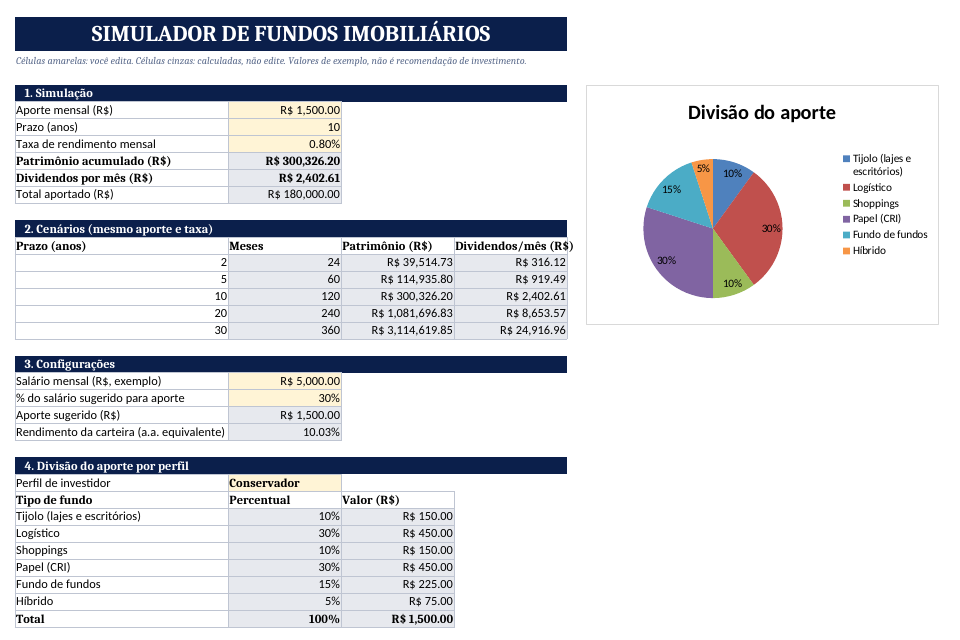
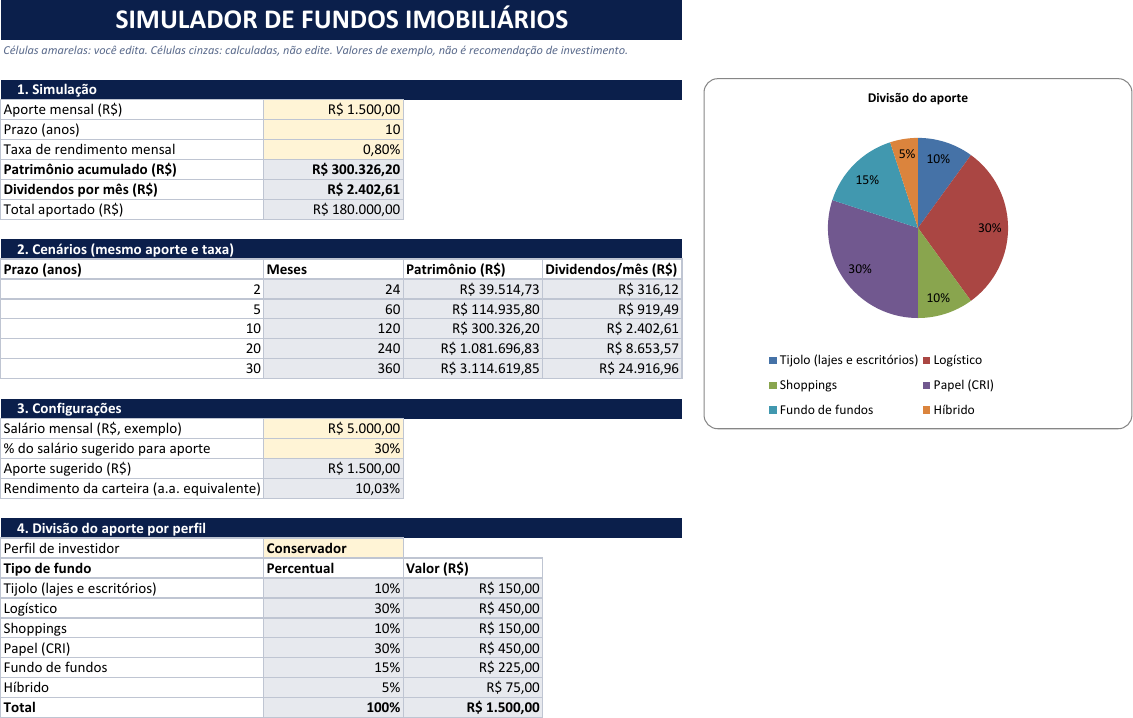
Excel: planilhas verificadas no Excel e gráficos corrigidos
Categorias dos gráficos como texto, títulos sem sobreposição, eixos e
legenda visíveis. Prints trocados por capturas do Excel.

Claude-Session: https://claude.ai/code/session_01AcydA1t7SxpgmSydUbNguB

diff --git a/projetos/excel/dashboard-vendas-game-pass/README.md b/projetos/excel/dashboard-vendas-game-pass/README.md
@@ -51,4 +51,4 @@ Os filtros funcionam assim: a escolha vira um critério (`Todos` vira `*`) e ent
 
 ## Conferência e limites
 
-Comparei com um cálculo em Python (pandas): receita total (7.633), assinantes (295), receita por plano, tipo, renovação e mês, add-ons e as respostas da tabela acima batem. No caso filtrado (Ultimate e Annual) os números também batem com o pandas. Não usei segmentadores de dados (slicers): o filtro é por lista suspensa.
+Comparei com um cálculo em Python (pandas): receita total (7.633), assinantes (295), receita por plano, tipo, renovação e mês, add-ons e as respostas da tabela acima batem. No caso filtrado (Ultimate e Annual) os números também batem com o pandas. Abri o arquivo no Excel e recalculei: sem erro de fórmula, 6 gráficos e os mesmos números (7.633, 295 e 25,87 de ticket médio; no filtro Ultimate e Annual, 1.186, 20 e 59,30). As imagens são prints do Excel. Não usei segmentadores de dados (slicers): o filtro é por lista suspensa.

diff --git a/projetos/excel/simulador-fundos-imobiliarios/README.md b/projetos/excel/simulador-fundos-imobiliarios/README.md
@@ -51,6 +51,6 @@ Não tenho a planilha do Expert para comparar, então não afirmo diferenças co
 
 ## Validação
 
-Conferi os resultados em Python com a fórmula fechada do valor futuro: 10 anos dá R$ 300.326,20 e R$ 2.402,61 de dividendos por mês; 2, 5, 20 e 30 anos dão R$ 39.514,73, R$ 114.935,80, R$ 1.081.696,83 e R$ 3.114.619,85. A planilha dá os mesmos valores, sem erro de fórmula, e os três perfis somam 100%.
+Conferi os resultados em Python com a fórmula fechada do valor futuro: 10 anos dá R$ 300.326,20 e R$ 2.402,61 de dividendos por mês; 2, 5, 20 e 30 anos dão R$ 39.514,73, R$ 114.935,80, R$ 1.081.696,83 e R$ 3.114.619,85. Abri a planilha no Excel e recalculei: dá os mesmos valores, sem erro de fórmula, e os três perfis somam 100%. As imagens são prints do Excel, com o perfil Moderado e o Conservador.
 
 **Ficou de fora:** banner em imagem e esconder barra de fórmulas e guias.

diff --git a/projetos/excel/controle-imposto-de-renda/README.md b/projetos/excel/controle-imposto-de-renda/README.md
@@ -30,7 +30,7 @@ Células brancas são para preencher. As azuladas são calculadas e ficam proteg
 
 ## Conferência
 
-Somei os dados de exemplo na mão: rendimentos de R$ 79.200,00 (60.000 + 18.000 + 1.200), imposto retido de R$ 4.200,00 e despesas de R$ 9.500,00 (saúde 6.000 e educação 3.500). O resumo mostra os mesmos valores e a planilha recalculada não deu erro de fórmula.
+Somei os dados de exemplo na mão: rendimentos de R$ 79.200,00 (60.000 + 18.000 + 1.200), imposto retido de R$ 4.200,00 e despesas de R$ 9.500,00 (saúde 6.000 e educação 3.500). Abri o arquivo no Excel, recalculei tudo: o resumo mostra os mesmos valores e não há erro de fórmula em nenhuma aba. As imagens desta pasta são prints do próprio Excel.
 
 ## O que ficou de fora ou sem testar
 
